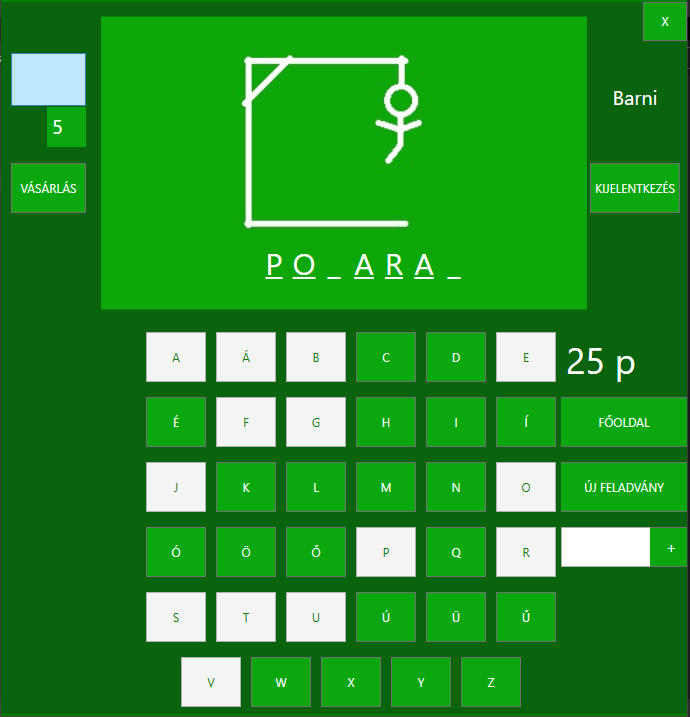
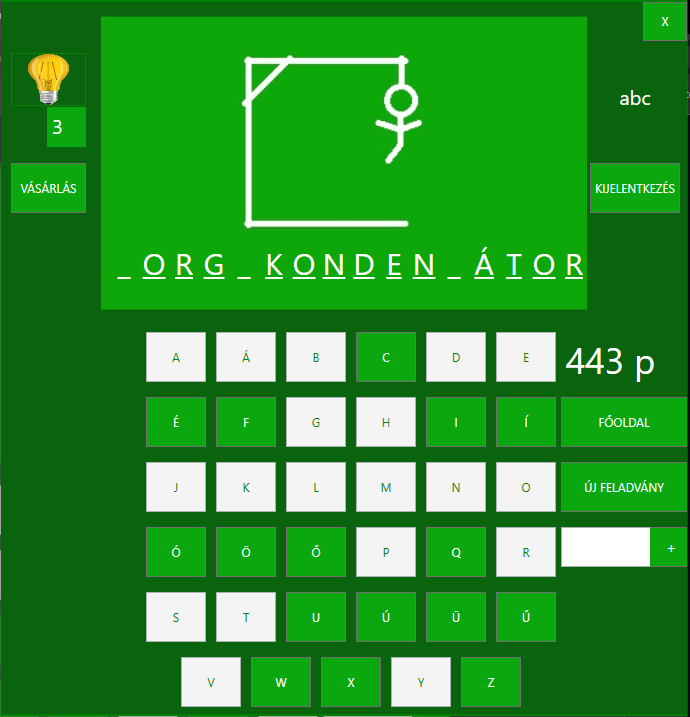
02.20v3

diff --git a/README.md b/README.md
@@ -1,5 +1,5 @@
 # Akasztófa játék
-Egy továbbfejlesztett akasztófa játék, amely regisztrációs és bejelentkezési rendszerrel rendelkezik. A felhasználók saját feladványokat hozhatnak létre, a sikeres játékokért pedig pontokat kapnak, amikből a boltban (100 pont felett) segítségeket vásárolhatnak.
+Egy továbbfejlesztett akasztófa játék, melynek célja hogy kitaláljuk a szót anélkül, hogy felakasztanánk a bábut. Azonban regisztrációs és bejelentkezési rendszerrel is rendelkezik. A felhasználók saját feladványokat hozhatnak létre, a sikeres játékokért pedig pontokat kapnak, amikből a boltban (100 pont felett) segítségeket vásárolhatnak.
 Fontos, hogy a szoftvert a Windows gyökér könyvtárba telepítse, különben a program nem fog működni!
 
 # Hangman Game
